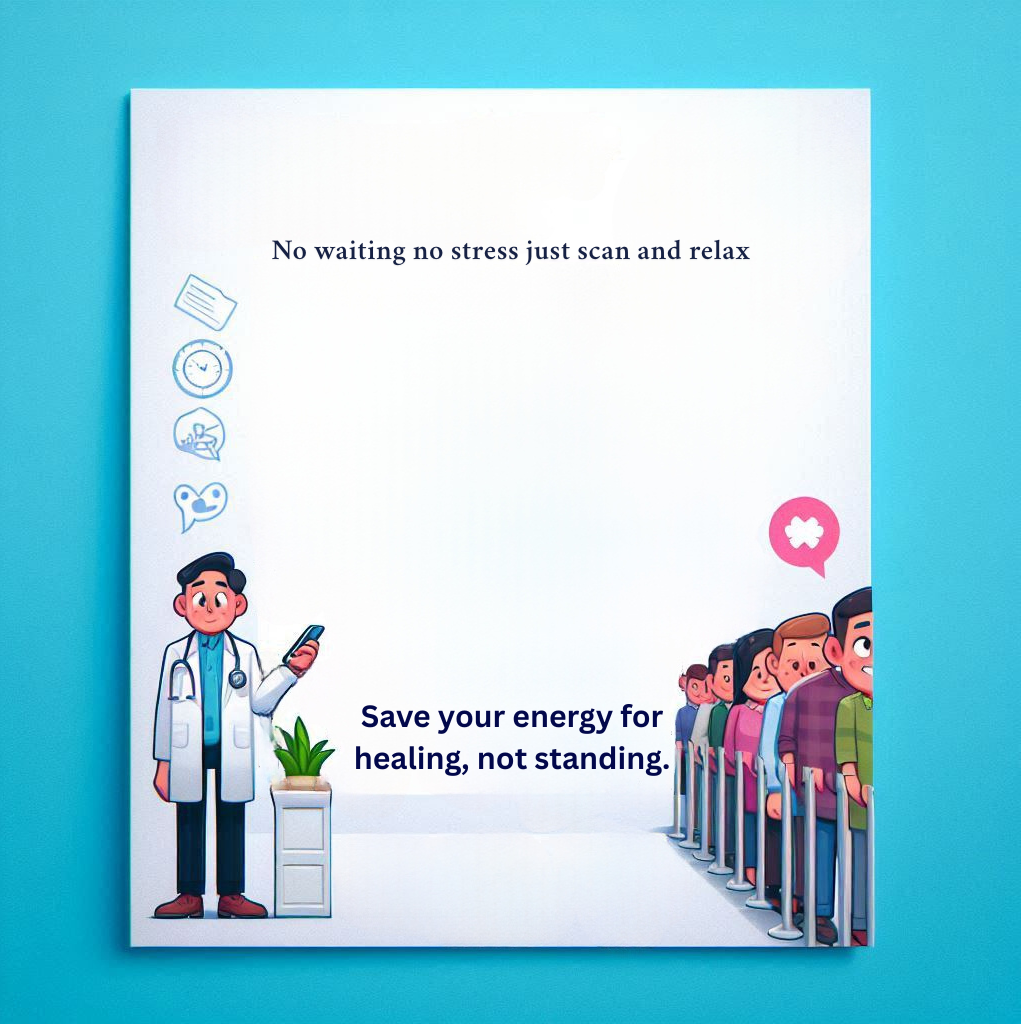
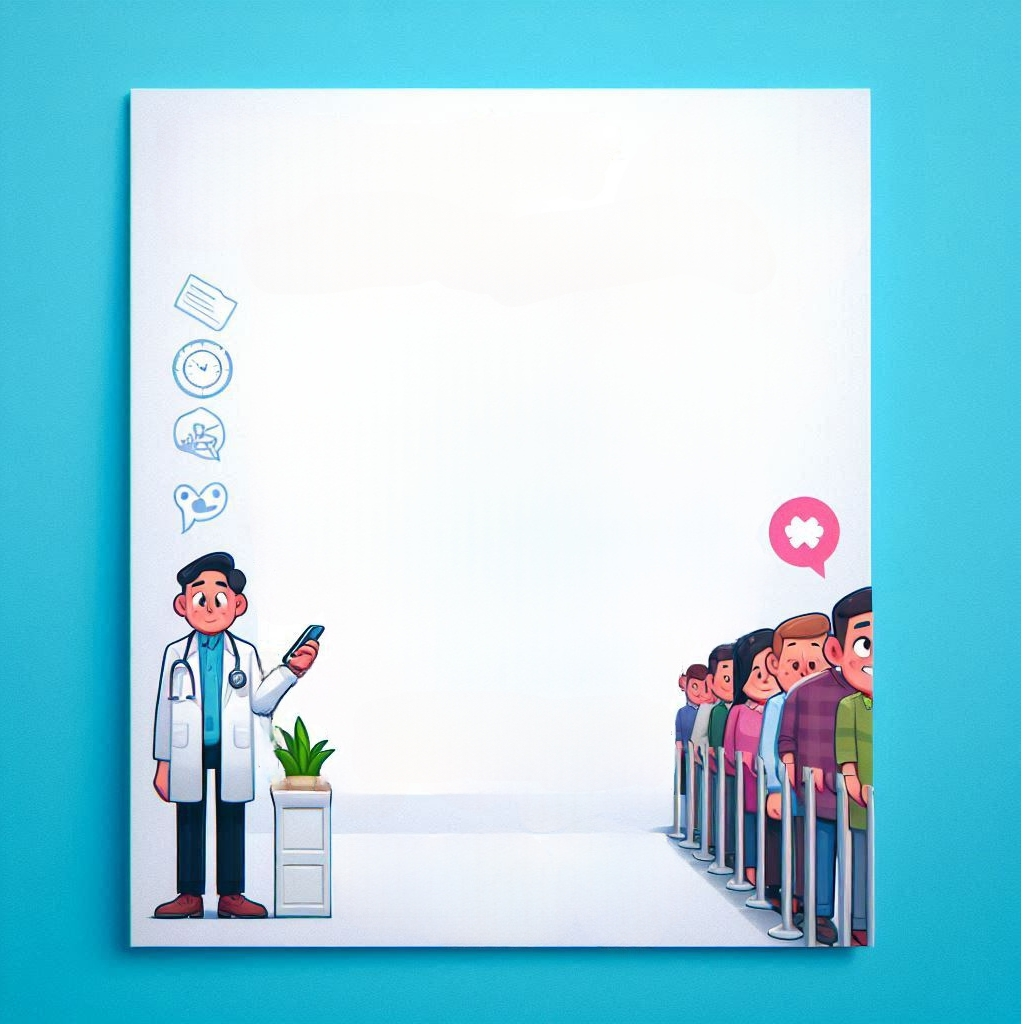
added other qr view

Changed region(s): [[0.3438, 0.6875, 0.6562, 0.7812], [0.25, 0.2188, 0.7188, 0.25]]

diff --git a/src/components/qrcode/QrVariants.tsx b/src/components/qrcode/QrVariants.tsx
@@ -1,6 +1,7 @@
 import React from "react";
 import QrCodeView from "./QrCodeView";
 import { CardContent, CardHeader, CardTitle } from "../ui/card";
+import { useGetOrgDetailsByWebName } from "@/feature/organization/hooks/useGetOrgByWebName";
 
 interface QrVariantsProps {
   qrRef: React.RefObject<HTMLDivElement | null>;
@@ -16,6 +17,20 @@ const QrVariants = ({
   variant,
   title,
 }: QrVariantsProps) => {
+  const { data: orgDetails } = useGetOrgDetailsByWebName();
+  const webNameLength = orgDetails?.doctorWebName?.length || 24;
+
+  const fontSize =
+    webNameLength < 25
+      ? "2xl"
+      : webNameLength <= 30
+        ? "xl"
+        : webNameLength <= 35
+          ? "lg"
+          : webNameLength <= 40
+            ? "base"
+            : "xs";
+
   switch (variant) {
     case "scannable":
       return (
@@ -40,20 +55,25 @@ const QrVariants = ({
       );
     case "queue":
       return (
-        <div className="qr-card relative flex aspect-square w-[40rem] max-w-full items-center justify-center overflow-hidden rounded-xl bg-[url(/qr-bg.png)] bg-contain bg-no-repeat px-0 shadow-lg">
+        <div
+          className={`qr-card relative flex aspect-square w-[40rem] max-w-full flex-col items-center overflow-hidden rounded-xl bg-contain bg-no-repeat px-0 pt-16 shadow-lg ${orgDetails?.orgType === "HOSPITAL" ? "bg-[url(/qr-bg.png)]" : "bg-[url(/other-qr-bg.jpg)]"} `}
+        >
           <div
             ref={qrRef}
-            className="absolute left-24 top-[4.2rem] text-xl font-semibold text-blue-900"
+            className="mb-5 w-full max-w-md text-start text-xl font-semibold text-blue-900"
           >
             <p>Book Your appointment </p>
             <p>
               with
-              <span className="mx-1 text-2xl font-bold uppercase">
+              <span className={`mx-1 font-bold uppercase ${fontSize}`}>
                 {decodeURIComponent(webName)}
               </span>
             </p>
           </div>
-          <div className="max-w-full">
+          <p className="text-lg text-primary">
+            No waiting no stress just scan and relax.
+          </p>
+          <div className="my-4 mr-4 max-w-full">
             <QrCodeView
               value={value}
               size={225}
@@ -64,10 +84,13 @@ const QrVariants = ({
               }}
             />
           </div>
+          <p className="bottom-28 max-w-64 text-center text-xl font-bold text-primary">
+            Save your energy for healing,not standing.
+          </p>
         </div>
       );
     default:
-      return null;
+      return null;  
   }
 };
 

diff --git a/src/feature/organization/hooks/useUserType.ts b/src/feature/organization/hooks/useUserType.ts
@@ -3,7 +3,8 @@ import { useGetOrgDetailsByWebName } from "./useGetOrgByWebName";
 const useUserType = () => {
   const { data: orgDetails } = useGetOrgDetailsByWebName();
 
-  const userType = orgDetails?.orgType === "HOSPITAL" ? "Patient" : "Customer";
+  const userType: "Patient" | "Customer" =
+    orgDetails?.orgType === "HOSPITAL" ? "Patient" : "Customer";
 
   return userType;
 };
